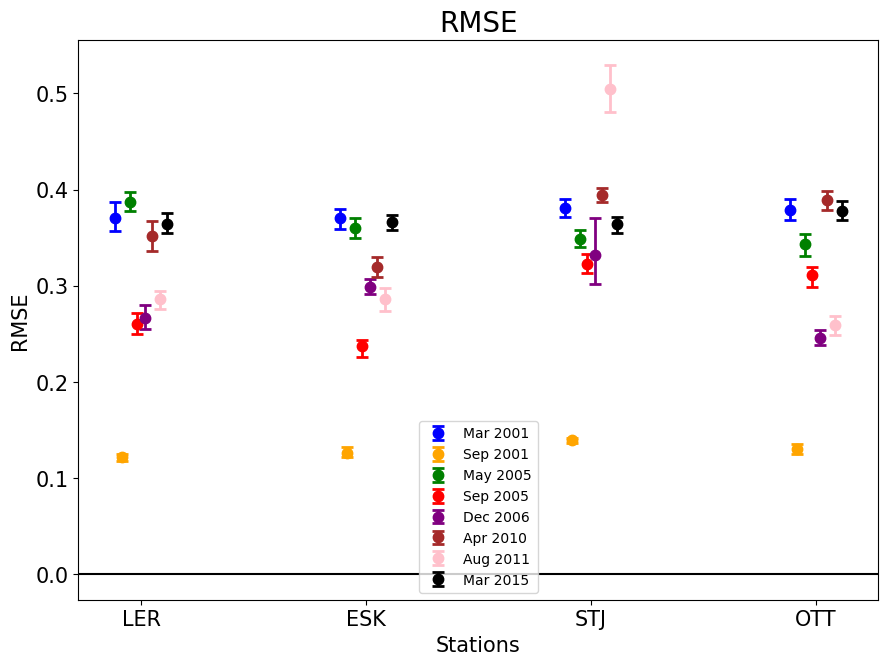
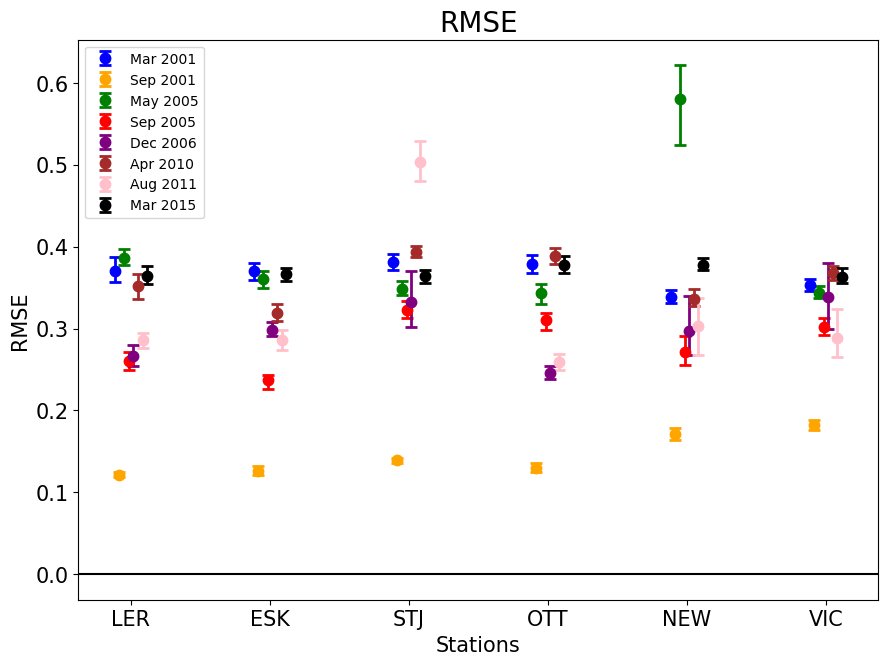
updating plots

diff --git a/plotting.py b/plotting.py
@@ -131,7 +131,7 @@ def plot_metrics(metrics_dict, stations, metrics=['HSS', 'AUC', 'RMSE'], sw=Fals
 		plt.subplots_adjust(bottom=0.1, top=0.9, left=0.1, right=0.9, hspace=0.03)			# trimming the whitespace in the subplots
 
 		# X = [5, 35, 65, 95, 125, 155, 185, 215]				# Used for labeling the x axis of the plots for each station.
-		X = [5, 35, 65, 95]				# Used for labeling the x axis of the plots for each station.
+		X = [5, 35, 65, 95, 125, 155]				# Used for labeling the x axis of the plots for each station.
 
 		'''subtracting and adding from the main X array above to
 			create slight speration in each of the storm metric results'''
@@ -245,7 +245,7 @@ def plot_total_metrics(metrics_dict, sw_metrics_dict, stations, metrics=['HSS', 
 	plt.subplots_adjust(bottom=0.1, top=0.9, left=0.1, right=0.9, hspace=0.03)			# trimming the whitespace in the subplots
 
 	# X = [5, 15, 25, 35, 45, 55, 65, 75]
-	X = [5, 10, 15, 20]
+	X = [5, 10, 15, 20, 25, 30]
 
 	x0 = [(num-1.5) for num in X]
 	x1 = [(num+1.5) for num in X]
@@ -472,8 +472,8 @@ def plot_model_outputs(results_dict, storm, splits, title):
 	# BFE = prep_k_fold_results(results_dict['BFE']['storm_{0}'.format(storm)]['raw_results'], splits)
 	# WNG = prep_k_fold_results(results_dict['WNG']['storm_{0}'.format(storm)]['raw_results'], splits)
 	STJ = prep_k_fold_results(results_dict['STJ']['storm_{0}'.format(storm)]['raw_results'], splits)
-	# NEW = prep_k_fold_results(results_dict['NEW']['storm_{0}'.format(storm)]['raw_results'], splits)
-	# VIC = prep_k_fold_results(results_dict['VIC']['storm_{0}'.format(storm)]['raw_results'], splits)
+	NEW = prep_k_fold_results(results_dict['NEW']['storm_{0}'.format(storm)]['raw_results'], splits)
+	VIC = prep_k_fold_results(results_dict['VIC']['storm_{0}'.format(storm)]['raw_results'], splits)
 	ESK = prep_k_fold_results(results_dict['ESK']['storm_{0}'.format(storm)]['raw_results'], splits)
 	LER = prep_k_fold_results(results_dict['LER']['storm_{0}'.format(storm)]['raw_results'], splits)
 
@@ -481,8 +481,8 @@ def plot_model_outputs(results_dict, storm, splits, title):
 	STJ_sw = prep_k_fold_results(results_dict['STJ']['storm_{0}'.format(storm)]['sw_results'], splits)
 	LER_sw = prep_k_fold_results(results_dict['LER']['storm_{0}'.format(storm)]['sw_results'], splits)
 	ESK_sw = prep_k_fold_results(results_dict['ESK']['storm_{0}'.format(storm)]['sw_results'], splits)
-	# NEW_sw = prep_k_fold_results(results_dict['NEW']['storm_{0}'.format(storm)]['sw_results'], splits)
-	# VIC_sw = prep_k_fold_results(results_dict['VIC']['storm_{0}'.format(storm)]['sw_results'], splits)
+	NEW_sw = prep_k_fold_results(results_dict['NEW']['storm_{0}'.format(storm)]['sw_results'], splits)
+	VIC_sw = prep_k_fold_results(results_dict['VIC']['storm_{0}'.format(storm)]['sw_results'], splits)
 	# BFE_sw = prep_k_fold_results(results_dict['BFE']['storm_{0}'.format(storm)]['sw_results'], splits)
 	# WNG_sw = prep_k_fold_results(results_dict['WNG']['storm_{0}'.format(storm)]['sw_results'], splits)
 
@@ -514,16 +514,16 @@ def plot_model_outputs(results_dict, storm, splits, title):
 							'pers_bottom':STJ['persistance']*1.07,
 							'pers_top':STJ['persistance']*1.12},
 							index=STJ.index)
-	# NEW_bar = pd.DataFrame({'NEW_bottom':NEW['cross']*1.01,
-	# 						'NEW_top':NEW['cross']*1.06,
-	# 						'pers_bottom':NEW['persistance']*1.07,
-	# 						'pers_top':NEW['persistance']*1.12},
-	# 						index=NEW.index)
-	# VIC_bar = pd.DataFrame({'VIC_bottom':VIC['cross']*1.01,
-	# 						'VIC_top':VIC['cross']*1.06,
-	# 						'pers_bottom':VIC['persistance']*1.07,
-	# 						'pers_top':VIC['persistance']*1.12},
-	# 						index=VIC.index)
+	NEW_bar = pd.DataFrame({'NEW_bottom':NEW['cross']*1.01,
+							'NEW_top':NEW['cross']*1.06,
+							'pers_bottom':NEW['persistance']*1.07,
+							'pers_top':NEW['persistance']*1.12},
+							index=NEW.index)
+	VIC_bar = pd.DataFrame({'VIC_bottom':VIC['cross']*1.01,
+							'VIC_top':VIC['cross']*1.06,
+							'pers_bottom':VIC['persistance']*1.07,
+							'pers_top':VIC['persistance']*1.12},
+							index=VIC.index)
 	ESK_bar = pd.DataFrame({'ESK_bottom':ESK['cross']*1.01,
 							'ESK_top':ESK['cross']*1.06,
 							'pers_bottom':ESK['persistance']*1.07,
@@ -540,8 +540,8 @@ def plot_model_outputs(results_dict, storm, splits, title):
 	# BFE_bar.index=pd.to_datetime(BFE_bar.index)
 	# WNG_bar.index=pd.to_datetime(WNG_bar.index)
 	STJ_bar.index=pd.to_datetime(STJ_bar.index)
-	# NEW_bar.index=pd.to_datetime(NEW_bar.index)
-	# VIC_bar.index=pd.to_datetime(VIC_bar.index)
+	NEW_bar.index=pd.to_datetime(NEW_bar.index)
+	VIC_bar.index=pd.to_datetime(VIC_bar.index)
 	ESK_bar.index=pd.to_datetime(ESK_bar.index)
 	LER_bar.index=pd.to_datetime(LER_bar.index)
 
@@ -601,7 +601,7 @@ def plot_model_outputs(results_dict, storm, splits, title):
 	# plt.yticks(fontsize='13')
 	# ax2.set_xticklabels([], fontsize=0)
 
-	ax3 = fig.add_subplot(411)
+	ax3 = fig.add_subplot(611)
 	z1=np.array(LER_bar['LER_bottom'])
 	z2=np.array(LER_bar['LER_top'])
 	w1=np.array(LER_bar['pers_bottom'])
@@ -617,7 +617,7 @@ def plot_model_outputs(results_dict, storm, splits, title):
 	plt.yticks(fontsize='13')
 	ax3.set_xticklabels([], fontsize=0)
 
-	ax4 = fig.add_subplot(412, sharex=ax3)
+	ax4 = fig.add_subplot(612, sharex=ax3)
 	z1=np.array(ESK_bar['ESK_bottom'])
 	z2=np.array(ESK_bar['ESK_top'])
 	w1=np.array(ESK_bar['pers_bottom'])
@@ -634,7 +634,7 @@ def plot_model_outputs(results_dict, storm, splits, title):
 	plt.xticks(fontsize=15)
 	ax4.set_xticklabels([], fontsize=0)
 
-	ax5 = fig.add_subplot(413, sharex=ax3)
+	ax5 = fig.add_subplot(613, sharex=ax3)
 	z1=np.array(STJ_bar['STJ_bottom'])
 	z2=np.array(STJ_bar['STJ_top'])
 	w1=np.array(STJ_bar['pers_bottom'])
@@ -650,7 +650,7 @@ def plot_model_outputs(results_dict, storm, splits, title):
 	plt.yticks(fontsize='13')
 	ax5.set_xticklabels([], fontsize=0)
 
-	ax6 = fig.add_subplot(414, sharex=ax3)
+	ax6 = fig.add_subplot(614, sharex=ax3)
 	z1=np.array(OTT_bar['OTT_bottom'])
 	z2=np.array(OTT_bar['OTT_top'])
 	w1=np.array(OTT_bar['pers_bottom'])
@@ -667,37 +667,41 @@ def plot_model_outputs(results_dict, storm, splits, title):
 	plt.xticks(fontsize=15)
 	# ax6.set_xticklabels([], fontsize=0)
 
-	# ax7 = fig.add_subplot(817, sharex=ax1)
-	# z1=np.array(NEW_bar['NEW_bottom'])
-	# z2=np.array(NEW_bar['NEW_top'])
-	# w1=np.array(NEW_bar['pers_bottom'])
-	# w2=np.array(NEW_bar['pers_top'])
-	# ax7.plot(NEW['mean'])
-	# ax7.fill_between(NEW.index, NEW['bottom_perc'], NEW['top_perc'], alpha=0.2, color='indigo')
-	# ax7.fill_between(NEW_bar.index, NEW_bar['NEW_bottom'], NEW_bar['NEW_top'], where=z2>z1, alpha=1, color='orange')
-	# ax7.fill_between(NEW_bar.index, NEW_bar['pers_bottom'], NEW_bar['pers_top'], where=w2>w1, alpha=1, color='black')
-	# ax7.margins(x=0)
-	# ax7.set_ylabel('NEW', fontsize='20')
-	# plt.yticks(fontsize='13')
-	# plt.xticks(fontsize=5)
-	# ax7.set_xticklabels([], fontsize=0)
+	ax7 = fig.add_subplot(615, sharex=ax3)
+	z1=np.array(NEW_bar['NEW_bottom'])
+	z2=np.array(NEW_bar['NEW_top'])
+	w1=np.array(NEW_bar['pers_bottom'])
+	w2=np.array(NEW_bar['pers_top'])
+	ax7.plot(NEW['mean'])
+	ax7.plot(NEW_sw['mean'], color='red')
+	ax7.fill_between(NEW.index, NEW['bottom_perc'], NEW['top_perc'], alpha=0.3)
+	ax7.fill_between(NEW_sw.index, NEW_sw['bottom_perc'], NEW_sw['top_perc'], alpha=0.3, color='red')
+	ax7.fill_between(NEW_bar.index, NEW_bar['NEW_bottom'], NEW_bar['NEW_top'], where=z2>z1, alpha=1, color='tab:green')
+	ax7.fill_between(NEW_bar.index, NEW_bar['pers_bottom'], NEW_bar['pers_top'], where=w2>w1, alpha=1, color='black')
+	ax7.margins(x=0)
+	ax7.set_ylabel('NEW', fontsize='20')
+	plt.yticks(fontsize='13')
+	plt.xticks(fontsize=5)
+	ax7.set_xticklabels([], fontsize=0)
 
-	# ax8 = fig.add_subplot(818, sharex=ax1)
-	# z1=np.array(VIC_bar['VIC_bottom'])
-	# z2=np.array(VIC_bar['VIC_top'])
-	# w1=np.array(VIC_bar['pers_bottom'])
-	# w2=np.array(VIC_bar['pers_top'])
-	# ax8.plot(VIC['mean'])
-	# ax8.fill_between(VIC.index, VIC['bottom_perc'], VIC['top_perc'], alpha=0.2, color='indigo')
-	# ax8.fill_between(VIC_bar.index, VIC_bar['VIC_bottom'], VIC_bar['VIC_top'], where=z2>z1, alpha=1, color='orange')
-	# ax8.fill_between(VIC_bar.index, VIC_bar['pers_bottom'], VIC_bar['pers_top'], where=w2>w1, alpha=1, color='black')
-	# ax8.margins(x=0)
-	# ax8.set_ylabel('VIC', fontsize='20')
-	# plt.yticks(fontsize='13')
-	# plt.xticks(fontsize=15)
+	ax8 = fig.add_subplot(616, sharex=ax3)
+	z1=np.array(VIC_bar['VIC_bottom'])
+	z2=np.array(VIC_bar['VIC_top'])
+	w1=np.array(VIC_bar['pers_bottom'])
+	w2=np.array(VIC_bar['pers_top'])
+	ax8.plot(VIC['mean'])
+	ax8.plot(VIC_sw['mean'], color='red')
+	ax8.fill_between(VIC.index, VIC['bottom_perc'], VIC['top_perc'], alpha=0.3)
+	ax8.fill_between(VIC_sw.index, VIC_sw['bottom_perc'], VIC_sw['top_perc'], alpha=0.3, color='red')
+	ax8.fill_between(VIC_bar.index, VIC_bar['VIC_bottom'], VIC_bar['VIC_top'], where=z2>z1, alpha=1, color='tab:green')
+	ax8.fill_between(VIC_bar.index, VIC_bar['pers_bottom'], VIC_bar['pers_top'], where=w2>w1, alpha=1, color='black')
+	ax8.margins(x=0)
+	ax8.set_ylabel('VIC', fontsize='20')
+	plt.yticks(fontsize='13')
+	plt.xticks(fontsize=15)
 
 	# # adds the date to the bottom of the plot
-	ax6.xaxis.set_major_formatter(mdates.DateFormatter('%b %d\n %H:%M'))
+	ax8.xaxis.set_major_formatter(mdates.DateFormatter('%b %d\n %H:%M'))
 
 	plt.savefig('plots/{0}_storm.png'.format(storm), bbox_inches='tight')
 

diff --git a/combining_and_processing_data.py b/combining_and_processing_data.py
@@ -390,6 +390,7 @@ def prep_train_data(df, stime, etime, lead, recovery, time_history):
 		train1 = np.concatenate([train1, x1])
 
 	# adding all of the training arrays to the dict
+	print('Num nan in Train data: '+str(np.isnan(Train).sum()))
 	train_dict['X'] = Train
 	train_dict['crossing'] = train1
 
@@ -410,8 +411,9 @@ def main(station):
 
 	print('Entering main...')
 
-	splits = CONFIG['k_fold_splits']		# denines the number of splits
+	splits = CONFIG['splits']		# denines the number of splits
 	df, threshold = data_prep(station, CONFIG['threshold'], CONFIG['params'], CONFIG['forecast'], CONFIG['window'], do_calc=True)		# calling the data prep function
+	print('Station: '+str(station))
 	train_dict, scaler = prep_train_data(df, CONFIG['test_storm_stime'], CONFIG['test_storm_etime'], CONFIG['lead'], CONFIG['recovery'],
 											MODEL_CONFIG['time_history'])  												# calling the training data prep function
 	if not os.path.exists('multi-station-dbdt-risk-assessment/models/scalers/'):

diff --git a/modeling.py b/modeling.py
@@ -240,6 +240,11 @@ def main(station):
 		ytrain = train_dict['crossing'][train_index]
 		yval = train_dict['crossing'][val_index]
 
+		print('X Train input Nans: '+str(np.isnan(xtrain).sum()))
+		print('X Val input Nans: '+str(np.isnan(xval).sum()))
+		print('Y Train input Nans: '+str(np.isnan(ytrain).sum()))
+		print('Y Val input Nans: '+str(np.isnan(yval).sum()))
+
 		# if the saved model already exists, loads the pre-fit model
 		if os.path.exists('models/{0}/CNN_SW_only_split_{1}.h5'.format(station, split)):
 			model = fit_CNN(MODEL, xtrain, xval, ytrain, yval, early_stop, split, station, first_time=False)
